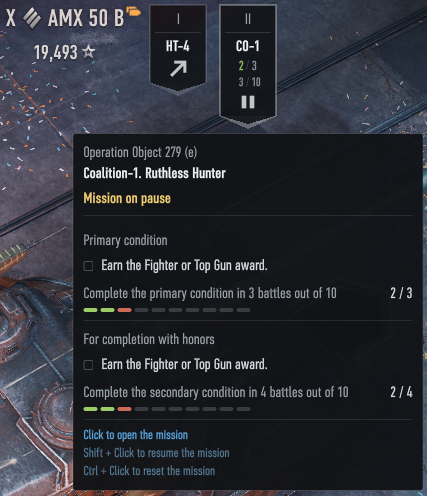
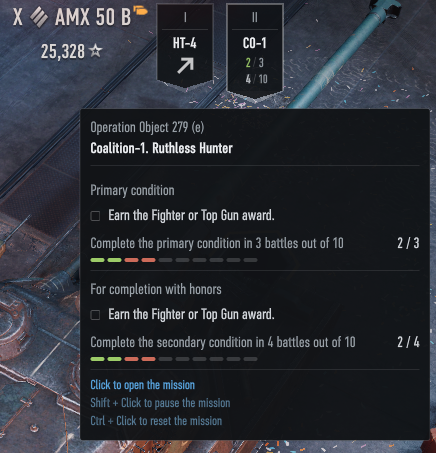
Updated colour.

diff --git a/mods/campaign-tracker/res/gui/gameface/mods/zanju_campaigns/widgets.css b/mods/campaign-tracker/res/gui/gameface/mods/zanju_campaigns/widgets.css
@@ -268,7 +268,14 @@
     display: none;
 }
 
-.zanju-ct-battles-used,
+/* The battles spent are a live value and the allowance is a fixed reference, so they take the
+   two greys the palette gives those jobs -- the same lead-and-reference shape as the score
+   above. The row stays subordinate through its size, not by flattening both numbers. */
+.zanju-ct-battles-used {
+    display: block;
+    color: #d7dbe0;
+}
+
 .zanju-ct-battles-total {
     display: block;
     color: #9ca4ab;
